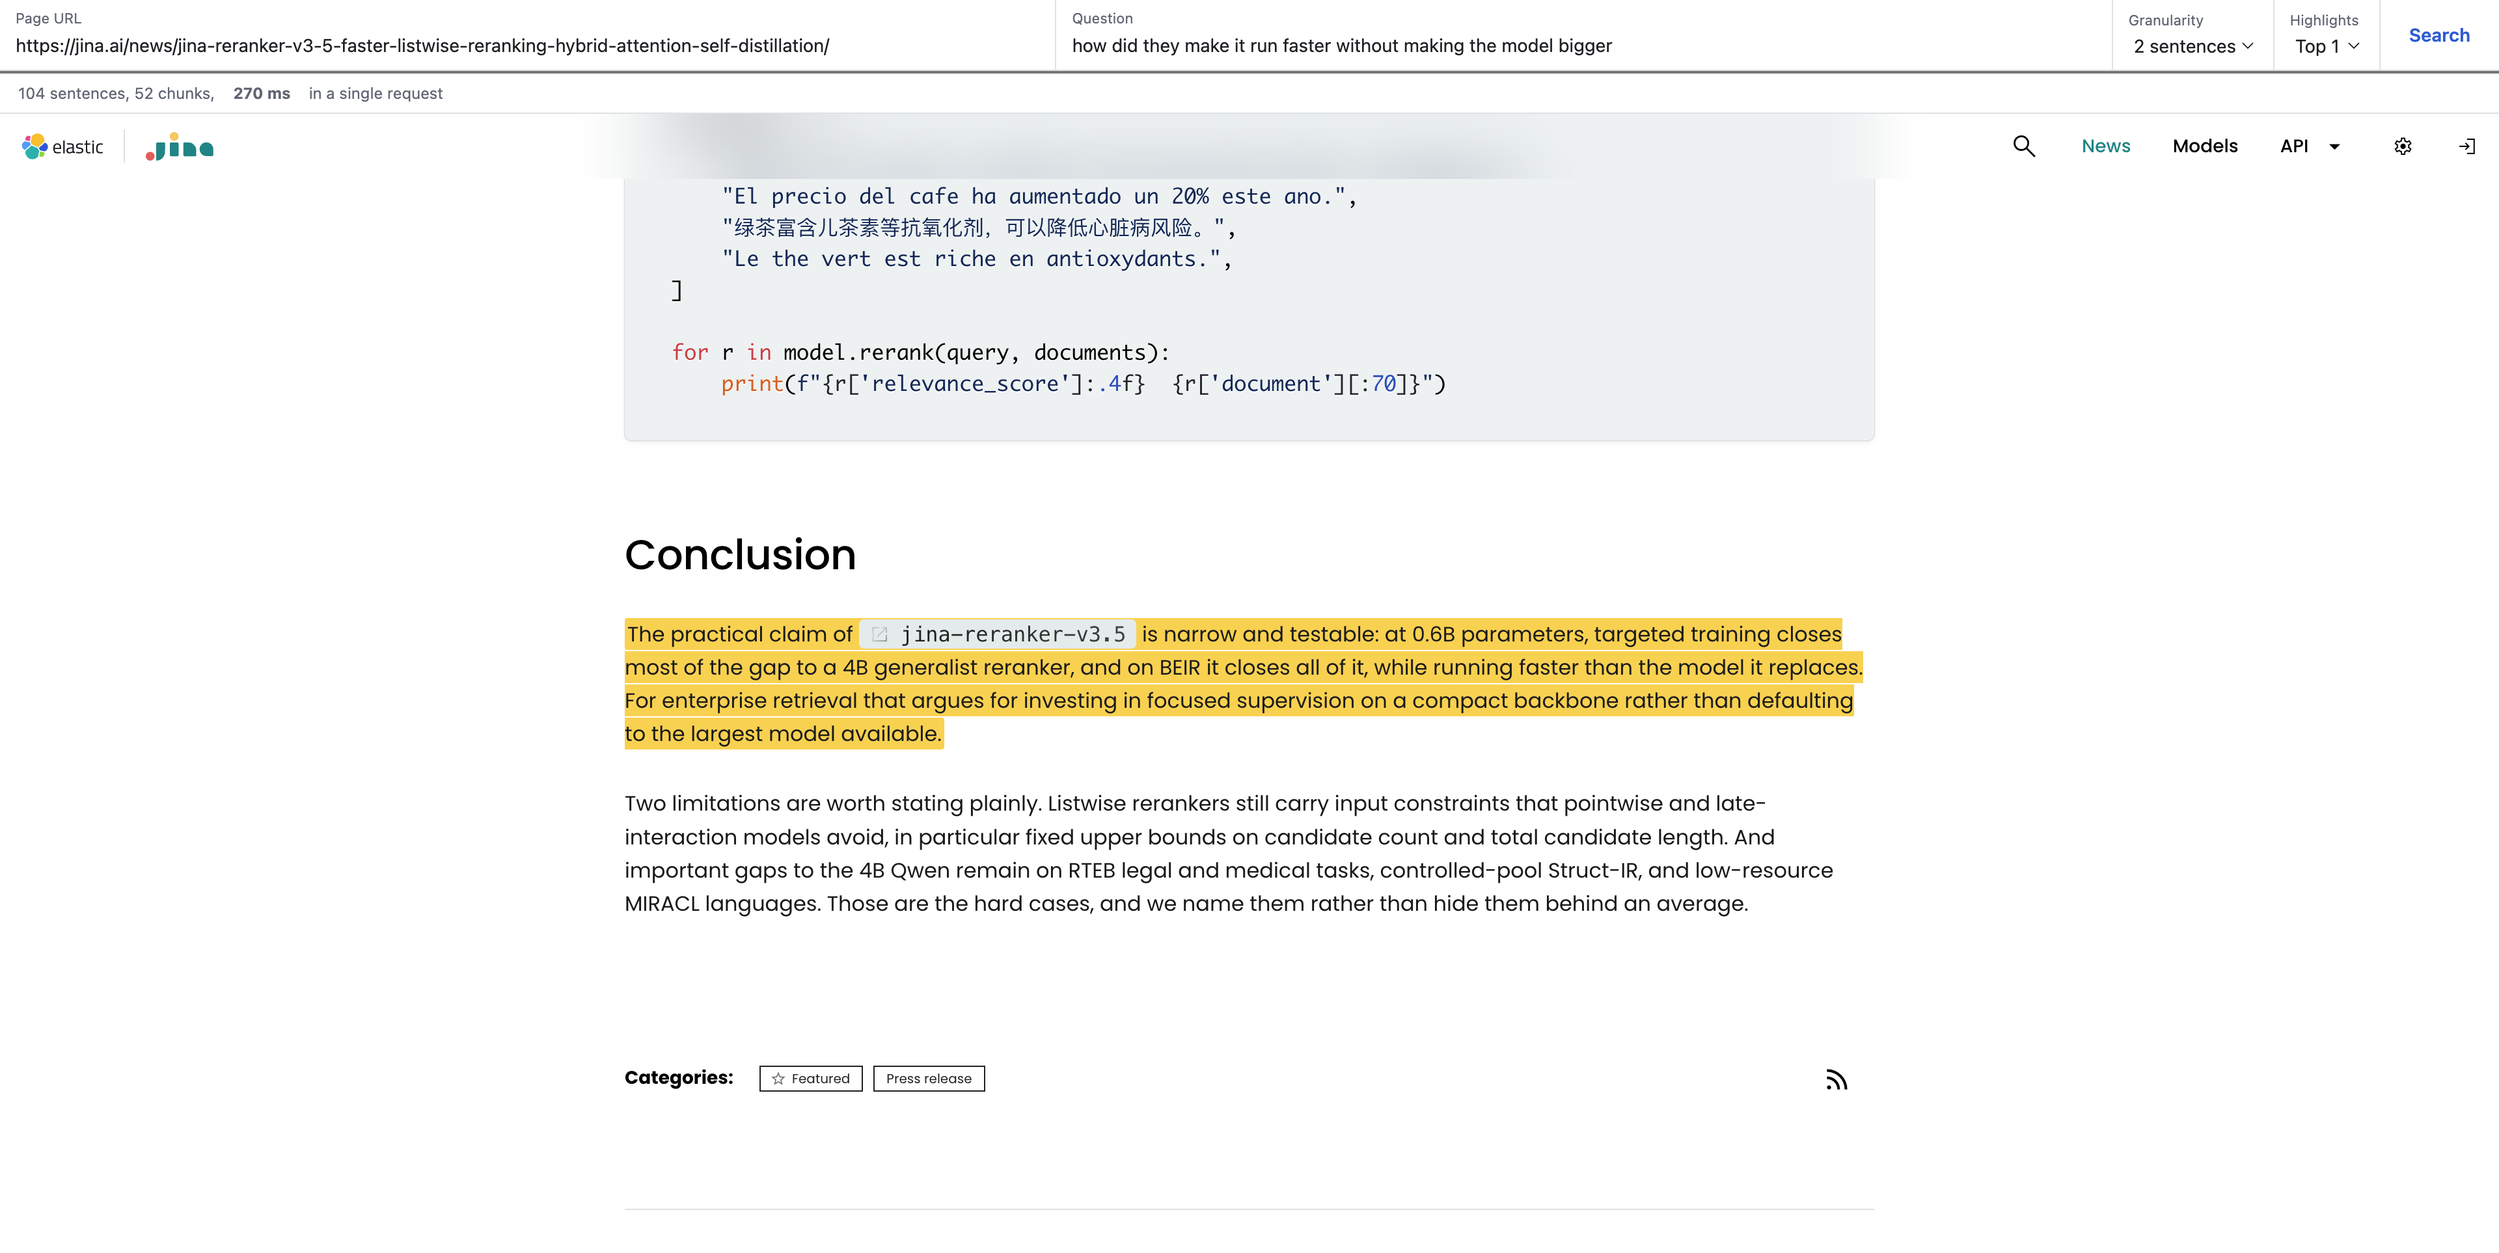
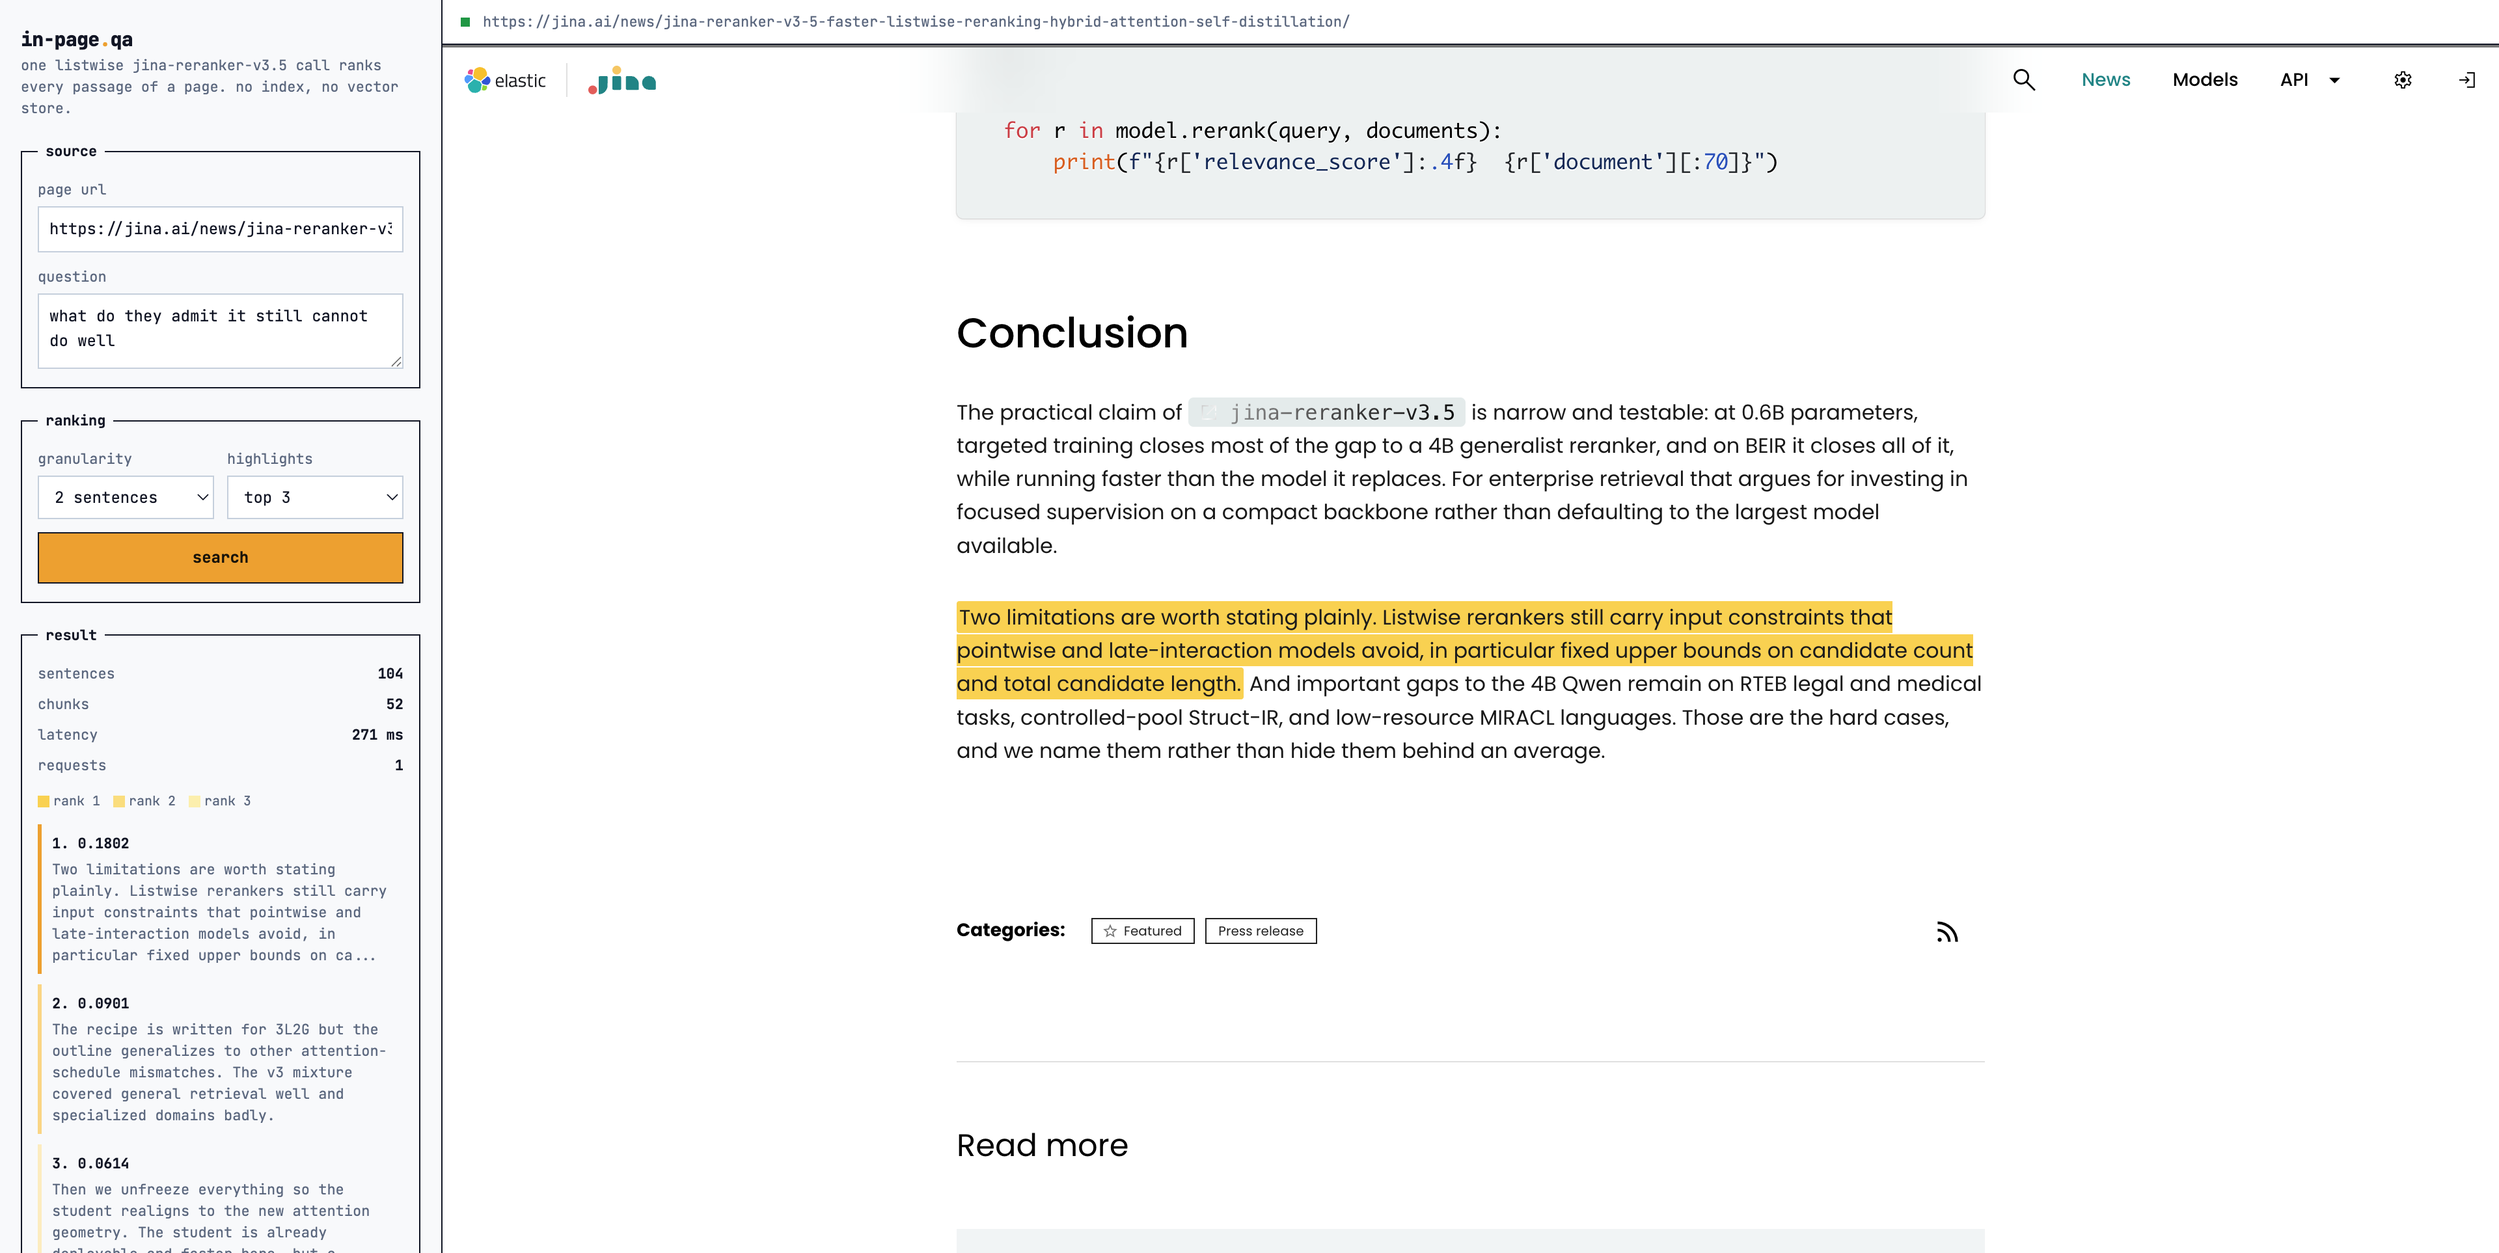
Rework the UI into a settings panel beside the rendered page
Settings on the left, the page on the right, in the monospace style of the
turbopuffer site: JetBrains Mono throughout, square borders, fieldset legends
inset into the rule, amber accent.

The right pane shows the source HTML with mark tags spliced in, so the page
keeps the stylesheet, fonts and layout it shipped with rather than being
re-rendered from extracted text. Ranked hits are listed with their scores and
clicking one scrolls the page to that highlight.

diff --git a/inpage/static/index.html b/inpage/static/index.html
@@ -3,107 +3,198 @@
 <head>
 <meta charset="utf-8">
 <meta name="viewport" content="width=device-width, initial-scale=1">
-<title>In-Page QA Test - jina-reranker-v3.5</title>
+<title>in-page qa search / jina-reranker-v3.5</title>
+<link rel="preconnect" href="https://fonts.googleapis.com">
+<link rel="preconnect" href="https://fonts.gstatic.com" crossorigin>
+<link href="https://fonts.googleapis.com/css2?family=JetBrains+Mono:wght@400;500;700;800&display=swap" rel="stylesheet">
 <style>
   :root {
-    --line: #e3e5e8;
-    --muted: #6b7280;
-    --bg: #fafbfc;
+    --bg: #f9fafc;
+    --ink: #0f172a;
+    --muted: #64748b;
+    --line: #0f172a;
+    --hair: #cbd5e1;
+    --accent: #f5a623;
+    --panel: 340px;
   }
   * { box-sizing: border-box; }
   html, body { height: 100%; margin: 0; }
   body {
+    display: flex;
+    background: var(--bg); color: var(--ink);
+    font: 13px/1.6 "JetBrains Mono", ui-monospace, SFMono-Regular, Menlo, monospace;
+  }
+
+  /* ---------- left: settings ---------- */
+  aside {
+    width: var(--panel); flex: 0 0 var(--panel);
+    border-right: 1px solid var(--line);
     display: flex; flex-direction: column;
-    font: 14px/1.5 -apple-system, BlinkMacSystemFont, "Segoe UI", Roboto, sans-serif;
-    color: #1f2328; background: var(--bg);
+    overflow-y: auto; padding: 18px 16px; gap: 16px;
   }
-  form.toolbar {
-    display: flex; align-items: stretch; flex-wrap: wrap;
-    background: #fff; border-bottom: 1px solid var(--line);
+  .brand { font-weight: 800; font-size: 15px; letter-spacing: -0.4px; }
+  .brand span { color: var(--accent); }
+  .tagline { color: var(--muted); font-size: 11px; line-height: 1.5; }
+
+  fieldset {
+    border: 1px solid var(--line); border-radius: 0;
+    margin: 0; padding: 12px 12px 14px;
+    display: flex; flex-direction: column; gap: 10px;
   }
-  .field { display: flex; flex-direction: column; justify-content: center;
-           padding: 6px 12px; border-right: 1px solid var(--line); min-width: 0; }
-  .field.grow { flex: 1 1 260px; }
-  .field label { font-size: 11px; color: var(--muted); }
-  .field input, .field select {
-    border: 0; outline: 0; background: transparent; font: inherit;
-    padding: 2px 0; width: 100%; min-width: 0; color: inherit;
+  legend { padding: 0 6px; font-size: 11px; font-weight: 700; }
+
+  label.row { display: flex; flex-direction: column; gap: 4px; font-size: 11px; color: var(--muted); }
+  input, select, textarea {
+    font: inherit; font-size: 12px; color: var(--ink);
+    background: #fff; border: 1px solid var(--hair); border-radius: 0;
+    padding: 7px 8px; width: 100%;
   }
+  textarea { resize: vertical; min-height: 58px; }
+  input:focus, select:focus, textarea:focus { outline: 2px solid var(--accent); outline-offset: -2px; }
+  .pair { display: grid; grid-template-columns: 1fr 1fr; gap: 10px; }
+
   button {
-    border: 0; background: #fff; font: inherit; font-weight: 600;
-    padding: 0 22px; cursor: pointer; color: #0969da;
+    font: inherit; font-weight: 700; font-size: 12px;
+    background: var(--accent); color: #1a1205;
+    border: 1px solid var(--line); border-radius: 0;
+    padding: 9px 12px; cursor: pointer; width: 100%;
   }
-  button:hover:not(:disabled) { background: #f3f4f6; }
-  button:disabled { color: var(--muted); cursor: default; }
-  .status {
-    display: flex; gap: 14px; align-items: center; flex-wrap: wrap;
-    padding: 6px 14px; font-size: 12px; color: var(--muted);
-    background: #fff; border-bottom: 1px solid var(--line);
+  button:hover:not(:disabled) { filter: brightness(1.06); }
+  button:disabled { background: #e2e8f0; color: var(--muted); cursor: default; }
+
+  .stat { display: flex; justify-content: space-between; gap: 8px; font-size: 11px; }
+  .stat dt { color: var(--muted); }
+  .stat dd { margin: 0; font-weight: 700; }
+  dl { margin: 0; display: flex; flex-direction: column; gap: 6px; }
+
+  .hit { border-left: 3px solid var(--accent); padding: 6px 0 6px 8px; font-size: 11px; cursor: pointer; }
+  .hit + .hit { margin-top: 8px; }
+  .hit:hover { background: #fff; }
+  .hit b { font-weight: 700; }
+  .hit p { margin: 3px 0 0; color: var(--muted); line-height: 1.5; }
+  .hit-2 { border-left-color: #ffd98a; }
+  .hit-3 { border-left-color: #ffeec4; }
+
+  .legendbar { display: flex; gap: 10px; font-size: 10px; color: var(--muted); }
+  /* display:flex would otherwise beat the hidden attribute */
+  .legendbar[hidden] { display: none; }
+  .chip { display: inline-block; width: 9px; height: 9px; margin-right: 3px; vertical-align: middle; }
+  .c1 { background: #ffd54f; } .c2 { background: #ffe082; } .c3 { background: #fff0b3; }
+
+  .err { color: #b3261e; font-size: 11px; line-height: 1.5; white-space: pre-wrap; }
+  .note { font-size: 10px; color: var(--muted); line-height: 1.5; }
+  a { color: inherit; }
+
+  /* ---------- right: rendered page ---------- */
+  main { flex: 1; min-width: 0; display: flex; flex-direction: column; }
+  .bar {
+    display: flex; align-items: center; gap: 10px;
+    padding: 8px 14px; border-bottom: 1px solid var(--line);
+    font-size: 11px; color: var(--muted); background: #fff;
+    white-space: nowrap; overflow: hidden;
   }
-  .status.error { color: #b3261e; }
-  .legend { display: inline-flex; align-items: center; gap: 4px; }
-  .chip { width: 10px; height: 10px; border-radius: 2px; display: inline-block; }
-  .r1 { background: #ffd54f; } .r2 { background: #ffe082; } .r3 { background: #fff0b3; }
-  /* Both fill the remaining height; only one is ever shown. min-height:0 stops
-     the flex child from being sized by its content and overflowing. */
-  #frame, .placeholder { flex: 1 1 auto; min-height: 0; width: 100%; }
+  .bar .url { overflow: hidden; text-overflow: ellipsis; }
+  .dot { width: 7px; height: 7px; background: var(--hair); flex: 0 0 auto; }
+  .dot.live { background: #16a34a; }
+  #frame, .empty { flex: 1 1 auto; min-height: 0; width: 100%; }
   #frame { border: 0; background: #fff; display: block; }
-  #frame[hidden], .placeholder[hidden] { display: none; }
-  .placeholder {
-    display: flex; align-items: center; justify-content: center;
-    color: #9aa0a6; font-size: 15px; text-align: center; padding: 24px;
-  }
+  #frame[hidden], .empty[hidden] { display: none; }
+  .empty { display: flex; align-items: center; justify-content: center; color: #94a3b8; font-size: 12px; }
   progress { width: 100%; height: 2px; display: block; border: 0; }
+
+  @media (max-width: 860px) {
+    body { flex-direction: column; }
+    aside { width: 100%; flex: 0 0 auto; border-right: 0; border-bottom: 1px solid var(--line); }
+  }
 </style>
 </head>
 <body>
-<form class="toolbar" id="form">
-  <div class="field grow">
-    <label for="url">Page URL</label>
-    <input id="url" name="url" type="url" required
-           value="https://jina.ai/news/jina-reranker-v3-5-faster-listwise-reranking-hybrid-attention-self-distillation/">
-  </div>
-  <div class="field grow">
-    <label for="question">Question</label>
-    <input id="question" name="question" required
-           placeholder="Ask in plain language, no keywords needed"
-           value="how did they make it run faster without making the model bigger">
-  </div>
-  <div class="field">
-    <label for="granularity">Granularity</label>
-    <select id="granularity">
-      <option value="1">1 sentence</option>
-      <option value="2" selected>2 sentences</option>
-      <option value="3">3 sentences</option>
-    </select>
-  </div>
-  <div class="field">
-    <label for="topn">Highlights</label>
-    <select id="topn">
-      <option value="1" selected>Top 1</option>
-      <option value="2">Top 2</option>
-      <option value="3">Top 3</option>
-    </select>
-  </div>
-  <button type="submit" id="go">Search</button>
-</form>
 
-<progress id="bar" hidden></progress>
-<div class="status" id="status">Ready. The whole page is ranked in one listwise call.</div>
-<div class="placeholder" id="placeholder">Results render here, inside the original page.</div>
-<iframe id="frame" hidden sandbox="allow-same-origin"></iframe>
+<aside>
+  <div>
+    <div class="brand">in-page<span>.</span>qa</div>
+    <div class="tagline">
+      one listwise jina-reranker-v3.5 call ranks every passage of a page.
+      no index, no vector store.
+    </div>
+  </div>
+
+  <form id="form">
+    <fieldset>
+      <legend>source</legend>
+      <label class="row">page url
+        <input id="url" type="url" required
+               value="https://jina.ai/news/jina-reranker-v3-5-faster-listwise-reranking-hybrid-attention-self-distillation/">
+      </label>
+      <label class="row">question
+        <textarea id="question" required
+                  placeholder="ask in plain language, no keywords needed">how did they make it run faster without making the model bigger</textarea>
+      </label>
+    </fieldset>
+
+    <fieldset style="margin-top:16px">
+      <legend>ranking</legend>
+      <div class="pair">
+        <label class="row">granularity
+          <select id="granularity">
+            <option value="1">1 sentence</option>
+            <option value="2" selected>2 sentences</option>
+            <option value="3">3 sentences</option>
+          </select>
+        </label>
+        <label class="row">highlights
+          <select id="topn">
+            <option value="1" selected>top 1</option>
+            <option value="2">top 2</option>
+            <option value="3">top 3</option>
+          </select>
+        </label>
+      </div>
+      <button type="submit" id="go">search</button>
+    </fieldset>
+  </form>
+
+  <fieldset>
+    <legend>result</legend>
+    <dl>
+      <div class="stat"><dt>sentences</dt><dd id="s-sent">&mdash;</dd></div>
+      <div class="stat"><dt>chunks</dt><dd id="s-chunk">&mdash;</dd></div>
+      <div class="stat"><dt>latency</dt><dd id="s-ms">&mdash;</dd></div>
+      <div class="stat"><dt>requests</dt><dd id="s-req">&mdash;</dd></div>
+    </dl>
+    <div class="legendbar" id="legend" hidden></div>
+    <div id="hits"></div>
+    <div class="err" id="err" hidden></div>
+  </fieldset>
+
+  <div class="note">
+    highlights are spliced into the original html, so the page keeps its own
+    stylesheet and layout. model runs locally through mlx.
+  </div>
+</aside>
+
+<main>
+  <div class="bar">
+    <span class="dot" id="dot"></span>
+    <span class="url" id="barurl">nothing loaded</span>
+  </div>
+  <progress id="bar" hidden></progress>
+  <div class="empty" id="empty">the rendered page appears here, with the answer highlighted in place</div>
+  <iframe id="frame" hidden sandbox="allow-same-origin"></iframe>
+</main>
 
 <script>
   const $ = (id) => document.getElementById(id);
-  const form = $('form'), bar = $('bar'), status = $('status');
-  const frame = $('frame'), placeholder = $('placeholder'), go = $('go');
+  const form = $('form');
+
+  const setText = (id, value) => { $(id).textContent = value; };
 
   form.addEventListener('submit', async (event) => {
     event.preventDefault();
-    go.disabled = true;
-    bar.hidden = false;
-    status.className = 'status';
-    status.textContent = 'Reading page and ranking passages...';
+    $('go').disabled = true;
+    $('bar').hidden = false;
+    $('err').hidden = true;
+    $('hits').innerHTML = '';
 
     try {
       const response = await fetch('/api/search', {
@@ -119,31 +210,55 @@
       const data = await response.json();
       if (!response.ok) throw new Error(data.error || response.statusText);
 
+      const frame = $('frame');
       frame.srcdoc = data.html;
       frame.hidden = false;
-      placeholder.hidden = true;
+      $('empty').hidden = true;
+      $('dot').classList.add('live');
+      $('barurl').textContent = $('url').value.trim();
+
       frame.addEventListener('load', () => {
-        // Jump to the best hit so the answer is on screen immediately.
-        const target = frame.contentDocument?.getElementById('jina-hit-0');
-        target?.scrollIntoView({ block: 'center' });
+        frame.contentDocument?.getElementById('jina-hit-0')
+          ?.scrollIntoView({ block: 'center' });
       }, { once: true });
 
+      setText('s-sent', data.sentences);
+      setText('s-chunk', data.chunks);
+      setText('s-ms', data.elapsed_ms + ' ms');
+      setText('s-req', '1');
+
       const topN = Number($('topn').value);
-      const legend = topN > 1
-        ? ' &nbsp; ' + Array.from({ length: topN }, (_, i) =>
-            `<span class="legend"><span class="chip r${i + 1}"></span>${i + 1}</span>`).join(' ')
-        : '';
-      status.innerHTML =
-        `${data.sentences} sentences, ${data.chunks} chunks, ` +
-        `<strong>${data.elapsed_ms} ms</strong> in a single request` + legend;
+      const legend = $('legend');
+      legend.hidden = topN < 2;
+      legend.innerHTML = Array.from({ length: topN }, (_, i) =>
+        `<span><span class="chip c${i + 1}"></span>rank ${i + 1}</span>`).join('');
+
+      $('hits').innerHTML = data.hits.map((hit) => `
+        <div class="hit hit-${hit.rank}" data-anchor="jina-hit-${hit.rank - 1}">
+          <b>${hit.rank}. ${hit.score.toFixed(4)}</b>
+          <p>${escapeHtml(hit.text.slice(0, 180))}${hit.text.length > 180 ? '...' : ''}</p>
+        </div>`).join('');
+
+      // Clicking a hit in the panel jumps the rendered page to it.
+      $('hits').querySelectorAll('.hit').forEach((element) => {
+        element.addEventListener('click', () => {
+          frame.contentDocument?.getElementById(element.dataset.anchor)
+            ?.scrollIntoView({ block: 'center', behavior: 'smooth' });
+        });
+      });
     } catch (error) {
-      status.className = 'status error';
-      status.textContent = String(error.message || error);
+      $('err').hidden = false;
+      $('err').textContent = String(error.message || error);
     } finally {
-      go.disabled = false;
-      bar.hidden = true;
+      $('go').disabled = false;
+      $('bar').hidden = true;
     }
   });
+
+  function escapeHtml(value) {
+    return value.replace(/[&<>"]/g, (c) =>
+      ({ '&': '&amp;', '<': '&lt;', '>': '&gt;', '"': '&quot;' }[c]));
+  }
 </script>
 </body>
 </html>

diff --git a/README.md b/README.md
@@ -110,11 +110,16 @@ export JINA_API_KEY=...                # https://jina.ai/api-dashboard/
 inpage-serve --model-dir ~/models/jina-reranker-v3.5-mlx
 ```
 
-Opens on <http://127.0.0.1:8000>. Type a URL and a question, pick granularity
-and how many hits to highlight, and the page comes back with the answer marked
-inside it.
+Opens on <http://127.0.0.1:8000>. Settings on the left, the rendered page on
+the right.
 
 ![Web UI](docs/img/web-ui.png)
+
+The right pane is **the page itself**, not a reconstruction of it. Highlights
+are spliced into the source HTML as `<mark>` tags, so every stylesheet, font,
+table and figure the page shipped with is still there -- the screenshot above
+keeps the blog's own typography and code blocks untouched. Ranked hits are
+listed bottom left with their scores; clicking one scrolls the page to it.
 
 The backend is a stdlib `http.server` with a single JSON endpoint,
 `POST /api/search` -- no web framework. The model loads once on the first
